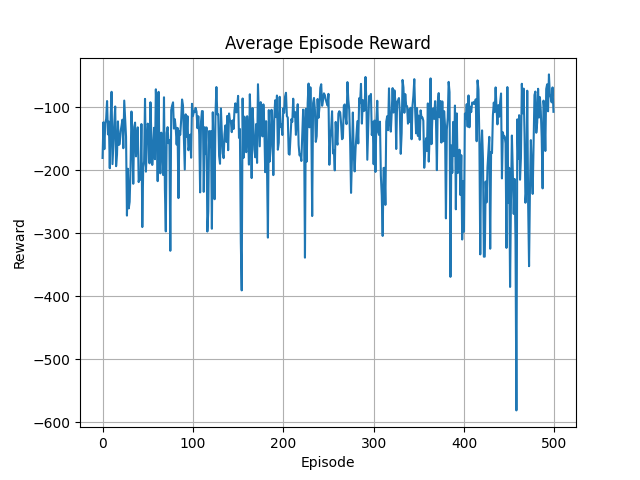
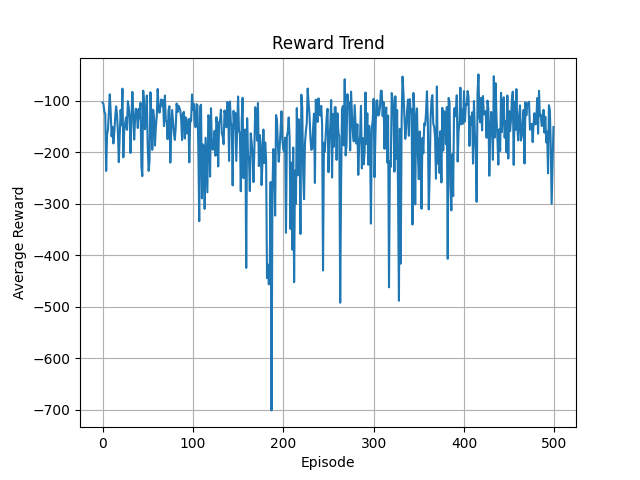
opencv integration for video recording

diff --git a/main2.py b/main2.py
@@ -1,0 +1,142 @@
+# main.py
+
+from pettingzoo.mpe import simple_spread_v3
+import numpy as np
+from agents.dqn_agent import DQNAgent
+from agents.critic import CentralizedCritic
+import torch
+import torch.nn as nn
+import torch.optim as optim
+import matplotlib.pyplot as plt
+import random
+import os
+import cv2
+
+# --- Setup ---
+os.makedirs("plots", exist_ok=True)
+os.makedirs("videos", exist_ok=True)
+
+env = simple_spread_v3.env(N=3, max_cycles=100, render_mode="rgb_array")
+env.reset(seed=42)
+
+obs_size = env.observation_space(env.agents[0]).shape[0]
+n_actions = env.action_space(env.agents[0]).n
+n_agents = len(env.possible_agents)
+
+# Update total_obs to account for message passing (+1 per agent)
+total_obs = (obs_size * n_agents) + n_agents
+total_actions = n_actions * n_agents
+
+# === Centralized Critic ===
+critic = CentralizedCritic(total_obs, total_actions)
+critic_target = CentralizedCritic(total_obs, total_actions)
+critic_target.load_state_dict(critic.state_dict())
+critic_opt = optim.Adam(critic.parameters(), lr=1e-3)
+crit_criterion = nn.MSELoss()
+
+# === Agents ===
+# Note: DQNAgent expects obs_size (without message), QNetwork adds +1 for message internally
+agent_obs_sizes = {"agent_0": obs_size // 2, "agent_1": obs_size, "agent_2": obs_size}
+agents = {a: DQNAgent(agent_obs_sizes[a], n_actions) for a in env.possible_agents}
+
+def modify_obs(agent, obs):
+    return obs[:agent_obs_sizes[agent]] if agent == "agent_0" else obs
+
+# === Training Parameters ===
+episodes = 500
+epsilon, decay, min_eps = 1.0, 0.995, 0.05
+rewards_log = []
+
+# === Init global video writer ===
+first_frame = env.render()
+frame_h, frame_w, _ = first_frame.shape
+video_writer = cv2.VideoWriter("videos/full_training.mp4", cv2.VideoWriter_fourcc(*'mp4v'), 5, (frame_w, frame_h))
+
+for ep in range(episodes):
+    env.reset()
+    last_obs = {}
+    total_rewards = {a: 0 for a in env.agents}
+
+    full_obs = []
+    full_act = []
+    messages = {a: 0.0 for a in env.agents}  # Initialize messages
+    agent_list = list(env.agents)
+
+    for agent_idx, agent in enumerate(env.agent_iter()):
+        obs, reward, term, trunc, _ = env.last()
+        done = term or trunc
+
+        obs = modify_obs(agent, obs)
+        if agent not in last_obs:
+            last_obs[agent] = obs
+
+        # Receive message from previous agent (circular)
+        prev_agent = agent_list[(agent_list.index(agent) - 1) % n_agents]
+        message = messages[prev_agent]
+
+        if done:
+            action = None
+        elif agent == "agent_1" and random.random() < 0.1:
+            action = 0
+        else:
+            action = agents[agent].act(obs, epsilon, message=message)
+
+        env.step(action)
+
+        full_obs.append(np.append(obs, message))
+        full_act.append(action if action is not None else 0)
+
+        if not done:
+            # Pass the received message to the remember function
+            agents[agent].remember(last_obs[agent], action, reward, obs, done, message)
+            last_obs[agent] = obs
+            total_rewards[agent] += reward
+            # Send message to next agent (for demonstration, use reward as message)
+            messages[agent] = reward
+
+        # Write each frame to global video
+        frame = env.render()
+        if frame is not None:
+            bgr_frame = cv2.cvtColor(frame, cv2.COLOR_RGB2BGR)
+            video_writer.write(bgr_frame)
+
+    # === IQL Training ===
+    for agent in agents.values():
+        agent.learn()
+
+    # === CTDE Centralized Critic Update ===
+    if len(full_obs) == n_agents:
+        # Reshape to (1, total_obs_with_messages)
+        obs_cat = torch.FloatTensor(np.array(full_obs).flatten()).unsqueeze(0)
+        act_cat = nn.functional.one_hot(torch.LongTensor(full_act), n_actions).view(1, -1).float()
+        q_val = critic(obs_cat, act_cat)
+        with torch.no_grad():
+            next_obs_cat = obs_cat
+            next_act_cat = act_cat
+            target_q = critic_target(next_obs_cat, next_act_cat)
+        loss = crit_criterion(q_val, target_q)
+        critic_opt.zero_grad()
+        loss.backward()
+        critic_opt.step()
+
+        if (ep + 1) % 10 == 0:
+            critic_target.load_state_dict(critic.state_dict())
+
+    # === Logging ===
+    avg_reward = np.mean(list(total_rewards.values()))
+    rewards_log.append(avg_reward)
+    epsilon = max(min_eps, epsilon * decay)
+    print(f"Episode {ep+1}, AvgR {avg_reward:.2f}, Eps {epsilon:.3f}")
+
+# === Close writer and save reward plot ===
+video_writer.release()
+print("[INFO] Full training video saved to videos/full_training.mp4")
+
+plt.plot(rewards_log)
+plt.title("Reward Trend")
+plt.xlabel("Episode")
+plt.ylabel("Average Reward")
+plt.grid()
+plt.savefig("plots/average_rewards.png")
+plt.show()
+cv2.destroyAllWindows()
